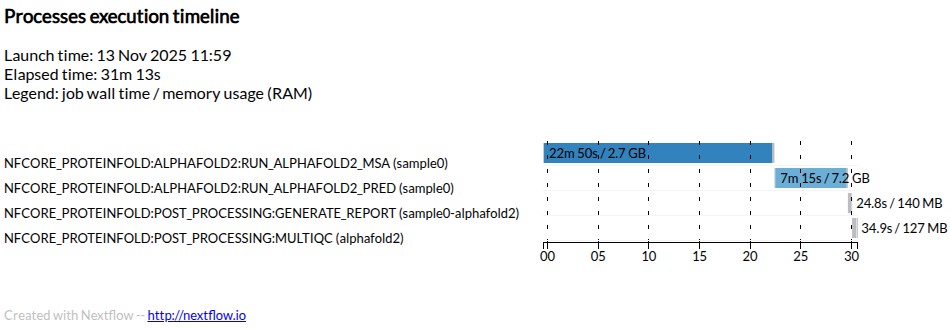
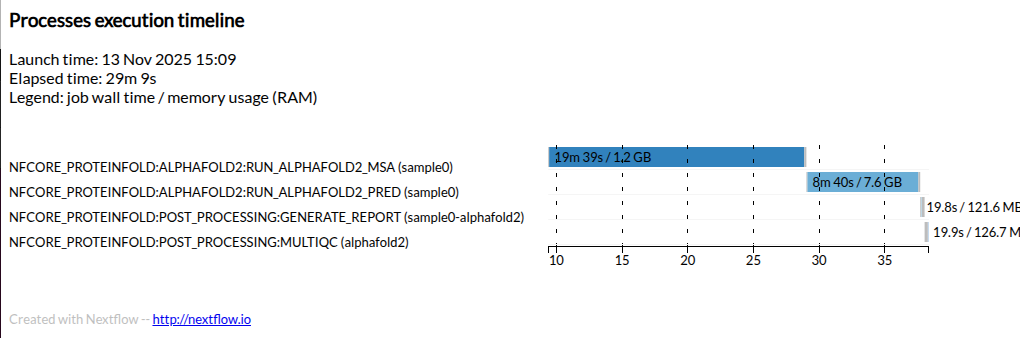
wip

diff --git a/_episodes/24-pawsey_proteinfold.md b/_episodes/24-pawsey_proteinfold.md
@@ -1,7 +1,7 @@
 ---
 title: "Run nf-core/proteinfold on Setonix"
 teaching: 5
-exercises: 10
+exercises: 15
 questions:
 objectives:
 - Locate the resources available to support running alphafold on Setonix.
@@ -17,18 +17,14 @@ keypoints:
 <img src="/assets/img/abacbs-proteinfold-metromap.svg" alt="pfold" width="800"/>
 </p>
 
-## Setup environment
-
-```bash
-module load singularity/4.1.0-slurm
-#module load nextflow/25.04.6 # This should still be loaded from the previous exercise
-```
-
-> ## Containers in Nextflow Workflows
-> The previous exercise didn’t use containers, but they are one of the most effective ways to manage software in workflow development, especially with Nextflow.
+> ## Setup environment
+> - The previous exercise didn’t use containers, but they are one of the most effective ways to manage software in workflow development, especially with Nextflow.
+> - In this exercise, we will be using singularity containers and so we need to load the corresponding module on Setonix.
 >
-> “Friends don’t let friends use conda/mamba with Nextflow, ESPECIALLY on HPC”
-> **-Sarah Beecroft, Pawsey**
+> ```bash
+> module load singularity/4.1.0-slurm
+> #module load nextflow/25.04.6 # This should still be loaded from the previous exercise
+> ```
 >
 > **Why containers?**
 >
@@ -40,20 +36,22 @@ module load singularity/4.1.0-slurm
 > **Why Set Environment Variables Before Submitting Nextflow Jobs?**
 > When using containers on HPC systems, Nextflow needs to know where to store and retrieve container images. By default, it downloads containers into the workflow’s work/ directory, which can be inefficient and waste storage if you run multiple workflows.
 >
->Setting environment variables allows you to:
+> Setting environment variables allows you to:
 > - Cache container images in a shared location → Avoid repeated downloads and speed up execution.
 > - Control storage paths → Prevent filling up your home directory or job scratch space.
 > - Ensure reproducibility → Use the same cached image across multiple runs and workflows.
 > 
 > How to set environmental variables:
-> ```bash 
-> export SINGULARITY_CACHEDIR=/path/to/cache
-> export SINGULARITY_LIBRARYDIR=/path/to/library
-> export NXF_SINGULARITY_CACHEDIR=/path/to/cache
-> export NXF_SINGULARITY_LIBRARYDIR=/path/to/library
-> ```
+> ~~~
+> mkdir $MYSCRATCH/containers
+> export SINGULARITY_CACHEDIR=$MYSCRATCH/containers
+> export SINGULARITY_LIBRARYDIR=/scratch/references/abacbs2025/containers
+> export NXF_SINGULARITY_CACHEDIR=$MYSCRATCH/containers
+> export NXF_SINGULARITY_LIBRARYDIR=/scratch/references/abacbs2025/containers
+> ~~~
+> {: .source}
 >
-> These variables tell Nextflow and Singularity where to store container images so you don’t waste time and space downloading them repeatedly.
+> These variables tell Nextflow and Singularity where to find and store container images so you don’t waste time and space downloading them repeatedly.
 > 
 >**Note: These environment variables need to be set each time you log in to the HPC system Or include them in your job submission script before running Nextflow.**
 >
@@ -62,9 +60,9 @@ module load singularity/4.1.0-slurm
 ## AMD-compatible images
 - The proteinfold workflow includes several modules that are executed on the GPU. 
 - Default containers [hosted](https://quay.io/organization/nf-core) by the nf-core organisation support Nvidia hardware and will not run on the Setonix AMD gpus. 
-- Pawsey provides a number of AMD-compatible [images](https://quay.io/organization/pawsey) which can be used to run structure prediction models. 
+- Pawsey provides a number of AMD-compatible [containers](https://quay.io/organization/pawsey) which can be used to run structure prediction models. 
 - Pre-built images have been made provided for the workshop today at `/scratch/references/abacbs2025/containers`. 
-- We can configure the workflow to use these images by defining their path in a custom NextFlow config.
+- We can configure the workflow to use these images by defining their path in a custom Nextflow config.
 
 Inspect the `abacbs_workshop.config` from the workshop repo to to see that workflow modules are configured to use non-standard images available on Setonix.
 
@@ -73,6 +71,7 @@ withName: 'RUN_ALPHAFOLD2' {
     container = '/scratch/references/abacbs2025/containers/alphafold2.sif'
     time = { 12.h }
     cpus = 8
+    memory = 32.GB
 }
 ```
 
@@ -90,17 +89,17 @@ You should see that alphafold databases are available here.
 
 ```
 databases/
-    ├── bfd
     ├── mgnify
     ├── params
     ├── pdb70
     ├── pdb_mmcif
-    ├── pdb_seqres
+    ├── **pdb_seqres**
     ├── small_bfd
-    ├── uniprot
+    ├── **uniprot**
     ├── uniref30
     └── uniref90 
 ```
+**TOM TODO: MULTIMER DBS**
 
 > ## Note
 > Today, we are using miniature versions of the databases to reduce execution time for the purpose of the workshop. These databases will NOT generate high-quality predictions for other protein targets. Full size databases are available at `/scratch/references/alphafold_feb2024/databases/`.
@@ -112,7 +111,7 @@ We can prepare a nextflow samplesheet containing our protein input in fasta form
 
 ``` csv
 id,sequence
-prot1,fasta/A0A0U5EPG3.fasta
+prot1,fasta/PNK_0205.fasta
 ```
 
 ## Basic run
@@ -124,11 +123,9 @@ prot1,fasta/A0A0U5EPG3.fasta
 
 ``` bash
 nextflow run nf-core/proteinfold/ --input samplesheet.csv \
-    --outdir output/ --db /scratch/references/alphafold_minidbs/databases/ --mode alphafold2 --use_gpu --alphafold2_mode "standard" \
+    --outdir output/ --db /scratch/references/abacbs2025/databases/ --mode alphafold2 --use_gpu --alphafold2_mode "standard" \
     -c abacbs_profile.config --slurm_account $PAWSEY_PROJECT -r 09ac089
 ```
-
-
 
 > ## Job monitoring
 > We can confirm that our job is running with: 
@@ -150,7 +147,9 @@ nextflow run nf-core/proteinfold/ --input samplesheet.csv \
 > ssh <node>
 > ~~~
 > {: .source}
-> - Type `yes` when prompted
+>
+> - Type `yes` when prompted and then enter your workshop account password at the password prompt.
+> - **Note: you can only connect to nodes where you have an active job running**
 >
 > ~~~
 > watch rocm-smi
@@ -167,11 +166,23 @@ A basic run of AlphaFold2 using the official implementation consumes XX SUs on t
 > {% raw %}
 > <img src="/assets/img/abacbs-af2-timeline.png" alt="af2tl" width="1200"/>
 > {% endraw %}
->
->
 {: .solution }
 
-- We can use the Pawesey [calculator](https://pawseysc.github.io/su-calculator/) to estimate the service unit (SU) cost of our workflow execution.
+> ## Service units consumed
+> - We can again use the Pawsey [calculator](https://pawseysc.github.io/su-calculator/) to estimate the service unit (SU) cost of our workflow execution.
+> - A full scale execution was completed in 0.75 hours using a single GPU (neglible CPU time).
+>
+> ~~~
+> Calculation Breakdown
+> SUs = Partition Charge Rate × Max Proportion × Nodes × Hours
+> 512 × 0.1250 × 1 × 0.75 = 48 SUs
+> GPU Proportion: 1 GCDs / 8 total GCDs = 0.1250
+> ~~~
+>
+> - Compare this with the execution time for the demo run from this workshow using the miniature databases.
+> - **Conclusion: A large portion of the execution time is spent searching the sequence databases.**
+>
+{: .prereq}
 
 
 ## Split MSA
@@ -194,11 +205,32 @@ nextflow run ../workflow/proteinfold/ --input samplesheet.csv \
 >
 {: .solution }
 
+> ## Service units consumed
+> - We can again use the Pawsey [calculator](https://pawseysc.github.io/su-calculator/) to estimate the service unit (SU) cost.
+> - A full scale execution was completed in 0.16 hours using a single GPU and 0.3 hours of CPU time.
+>
+> **CPU**
+> ~~~
+> SUs = Partition Charge Rate × Max Proportion × Nodes × Hours
+> 128 × 0.1391 × 1 × 0.3 = 5.343 SUs
+>
+> Core Proportion: 8 cores / 128 total cores = 0.0625
+> Memory Proportion: 32 GB / 230 GB total for accounting = 0.1391
+> Max Proportion (Memory): 0.1391
+> ~~~
+> <br>
+> **GPU**
+> ~~~
+> SUs = Partition Charge Rate × Max Proportion × Nodes × Hours
+> 512 × 0.1250 × 1 × 0.16 = 10.24 SUs
+> GPU Proportion: 1 GCDs / 8 total GCDs = 0.1250
+> ~~~
+{: .prereq}
+
 Compare the SU rate of XX node compared to YY node.
 
 ```
-XX: 
-YY: 
+Standard:               48   SUs
+Split MSA: 5.3 + 10.2 = 15.5 SUs
 ```
-
-As a result, running AlphaFold2 in split mode whereby CPU-bound search is conducted on a CPU node significantly reduces SU consumption.
+**Running AlphaFold2 in split mode (whereby CPU-bound search is conducted on a CPU node) can significantly reduce SU consumption.**

diff --git a/_episodes/23-pawsey_nextflow.md b/_episodes/23-pawsey_nextflow.md
@@ -1,5 +1,5 @@
 ---
-title: "Run NextFlow pipeline on Setonix"
+title: "Run Nextflow pipeline on Setonix"
 teaching: 0
 exercises: 5
 questions:
@@ -21,7 +21,7 @@ keypoints:
 {: .keypoints}
 
 
->## What is "nextflow"?
+>## What is "Nextflow"?
 > Nextflow DSL2, based on Groovy, lets you take your analysis code and easily wrap it into a modular, automated pipeline. It helps bioinformaticians build reproducible workflows that run anywhere.
 >
 > **Why Use Nextflow?**
@@ -43,7 +43,7 @@ keypoints:
 
 ### Running a nextflow workflow
 
-Today we’ll run a shortened Nextflow demo based on a [nextflow template](https://github.com/Sydney-Informatics-Hub/template-nf) developed at the University of Sydney. This example highlights basic Nextflow functionality through a simple genomics workflow. For the full demo and detailed explanations, visit the [documentation](https://sydney-informatics-hub.github.io/template-nf-guide/)..
+Today we’ll run a shortened Nextflow demo based on a [nextflow template](https://github.com/Sydney-Informatics-Hub/template-nf) developed at the University of Sydney. This example highlights basic Nextflow functionality through a simple genomics workflow. For the full demo and detailed explanations, visit the [documentation](https://sydney-informatics-hub.github.io/template-nf-guide/).
 
 > ## Demo Scenario
 > This demo simulates the start of a larger workflow where samples need to be grouped by sequencing platform for downstream processing. It uses a single samplesheet (assets/samplesheet.csv) with sample names, FASTQ paths, and platform info (e.g., Illumina or PacBio).
@@ -217,4 +217,4 @@ nextflow run main.nf --input assets/samplesheet.csv
 >
 {: .solution }
 
-Congratulations, you have run a nextflow pipeline on setonix ... Now go use it for fun science!
+Congratulations, you have run a nextflow pipeline on setonix!

diff --git a/index.md b/index.md
@@ -17,6 +17,6 @@ Like this tutorial?  **Star** it on [Github (button on top right)](https://githu
 
 ## Acknowledgements
 
-This tutorial is based on [Intro2HPC](https://github.com/SarahBeecroft/Intro2HPC).
-
-This work is supported by [Australian BioCommons](https://www.biocommons.org.au/) via funding from [Bioplatforms Australia](https://bioplatforms.com/). Bioplatforms Australia is funded by the National Collaborative Research Infrastructure Strategy (NCRIS).
+- This tutorial is based on [Intro2HPC](https://github.com/SarahBeecroft/Intro2HPC).
+- This work is supported by [Australian BioCommons](https://www.biocommons.org.au/) via funding from [Bioplatforms Australia](https://bioplatforms.com/). 
+- Bioplatforms Australia is funded by the National Collaborative Research Infrastructure Strategy (NCRIS).
